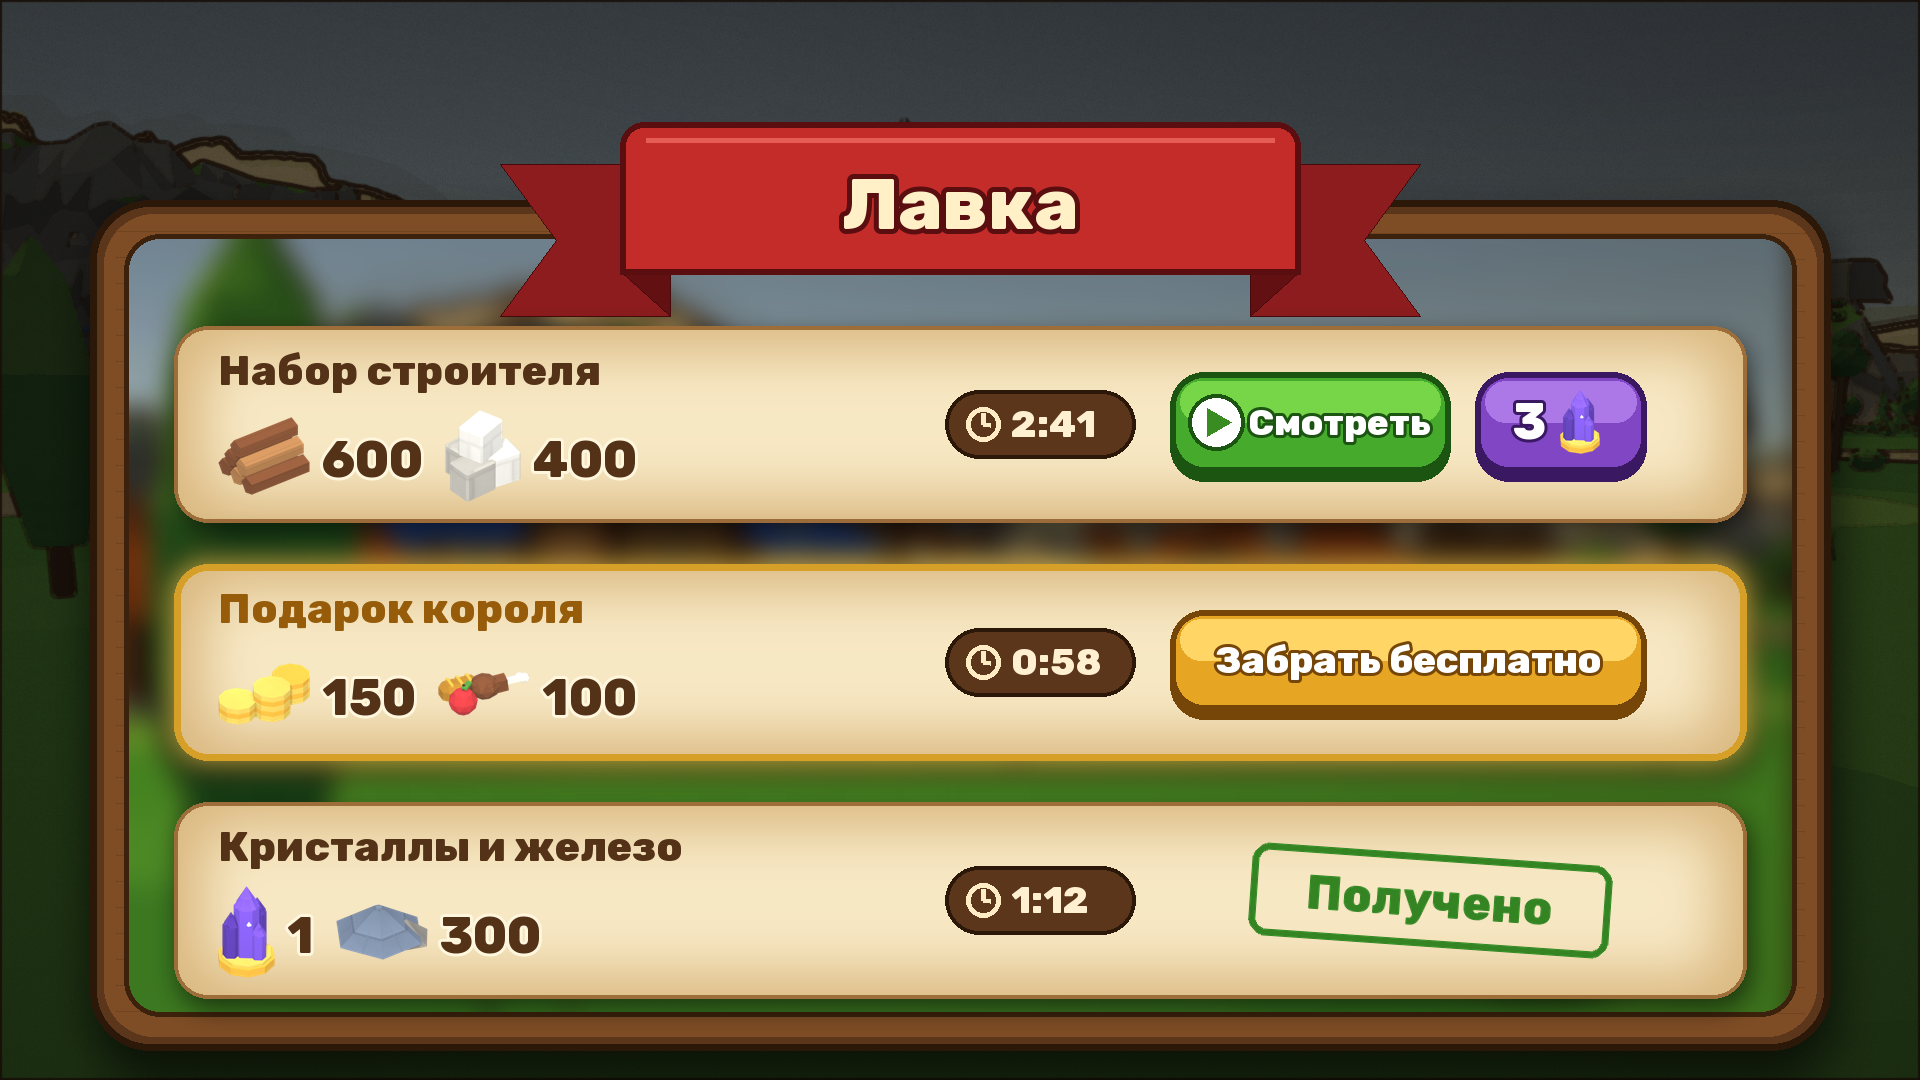
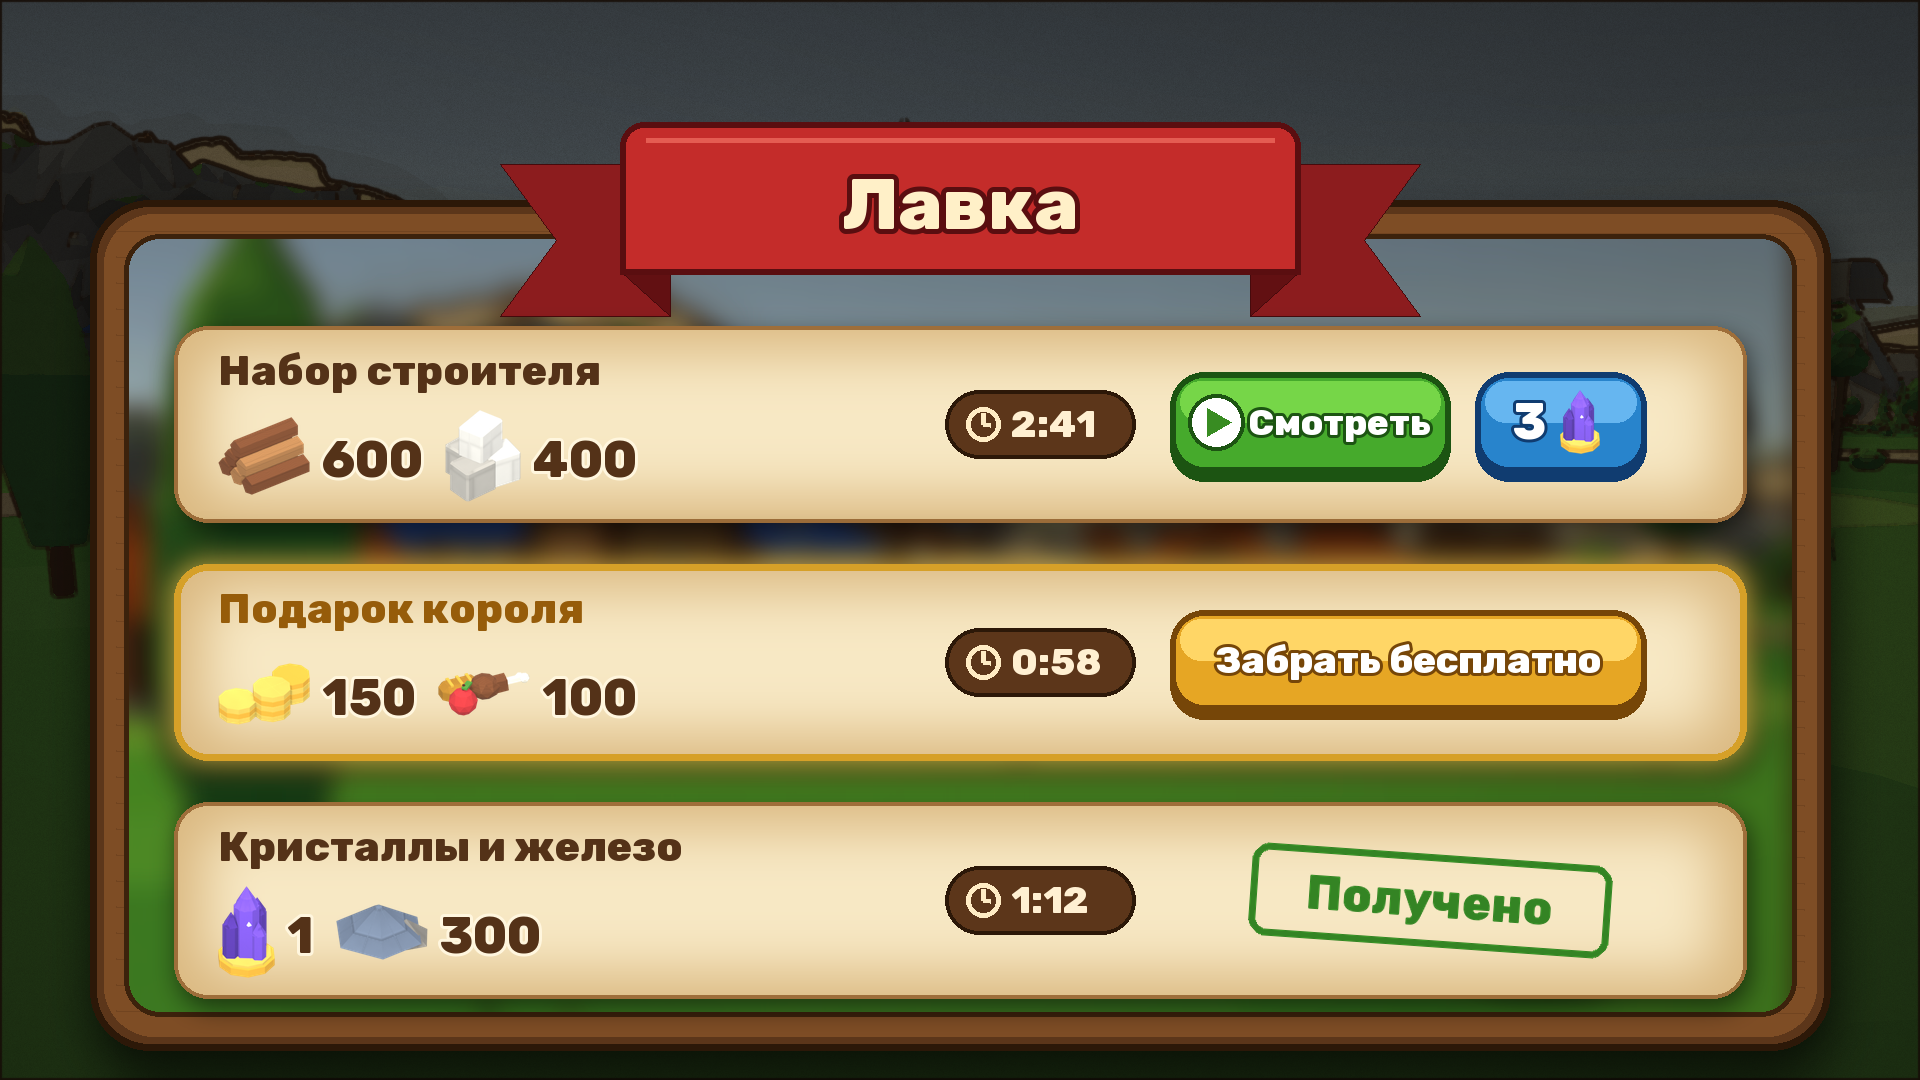
Offer shop mock-up: the crystal-price button blue, the violet crystal melted into a violet one (the user)

Changed region(s): [[0.75, 0.3361, 0.875, 0.4583]]

diff --git a/Tools/store/offer_shop_mockup.py b/Tools/store/offer_shop_mockup.py
@@ -19,7 +19,8 @@ W, H = 1920, 1080
 INK = (84, 50, 24)
 INK_SOFT = (140, 98, 58)
 GREEN = ((70, 170, 44), (118, 214, 72), (28, 84, 18))
-VIOLET = ((128, 70, 196), (172, 120, 232), (58, 24, 98))
+# the crystal price: blue, not violet -- the violet crystal melted into a violet button (the user, 2026-11-11)
+VIOLET = ((40, 132, 204), (102, 182, 240), (16, 60, 112))
 GOLD = ((230, 166, 36), (255, 214, 102), (118, 70, 8))
 
 

diff --git a/Design/features/monetization.md b/Design/features/monetization.md
@@ -43,7 +43,7 @@ reinstall or a new phone wipes it. Needs a cloud save (e.g. Google Play Games Sa
     bonus is up; the notification opens it. The same three offers ALSO shown in the sandbox menu.
   - Ads are a stand-in for now (no ad network yet).
 - Mock-up v1 (2026-11-11, awaiting the user's verdict): `Design/store/OfferShop_Mockup.png` (window
-  «Лавка»: three parchment strips -- ordinary with timer + «Смотреть» + crystal price, the gold-rimmed
+  «Лавка»: three parchment strips -- ordinary with timer + «Смотреть» + a BLUE crystal-price button (violet melted into the crystal, the user), the gold-rimmed
   free «Подарок короля», a taken one with a «Получено» stamp) and `OfferShop_Hud.png` (stall icon in the
   left column with a timer and a red dot, glowing; gold notification with a 30-s bar). Drawn by
   `Tools/store/offer_shop_mockup.py`. Then: the sheet tabs and the code.
